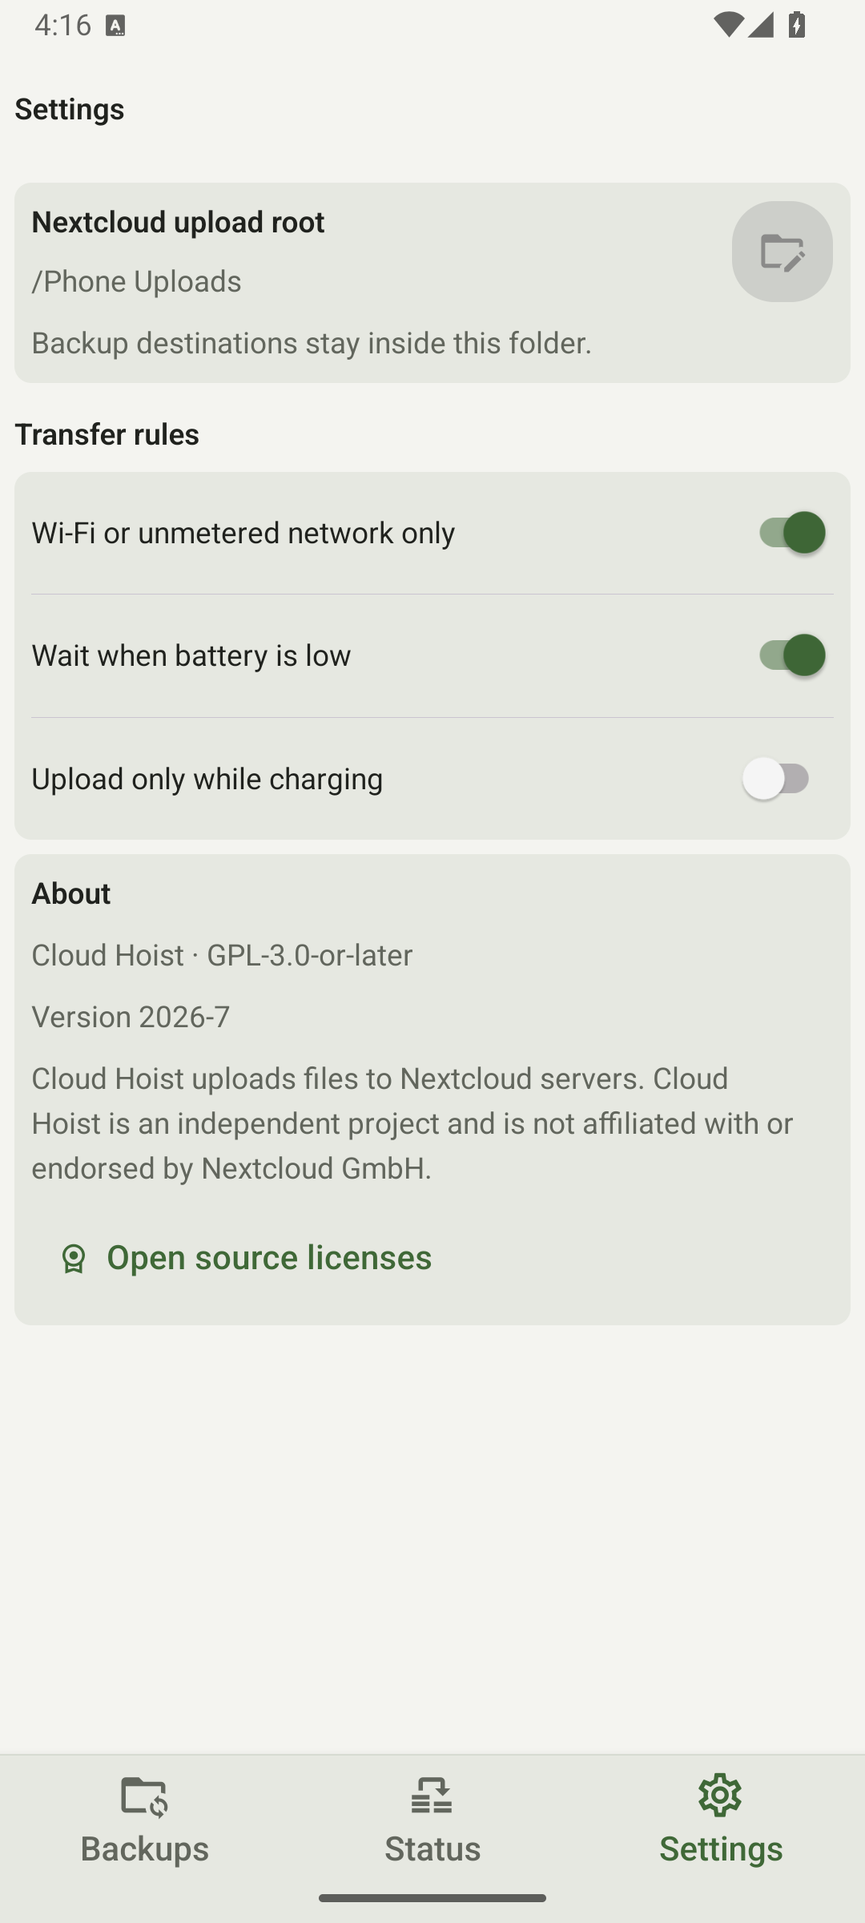
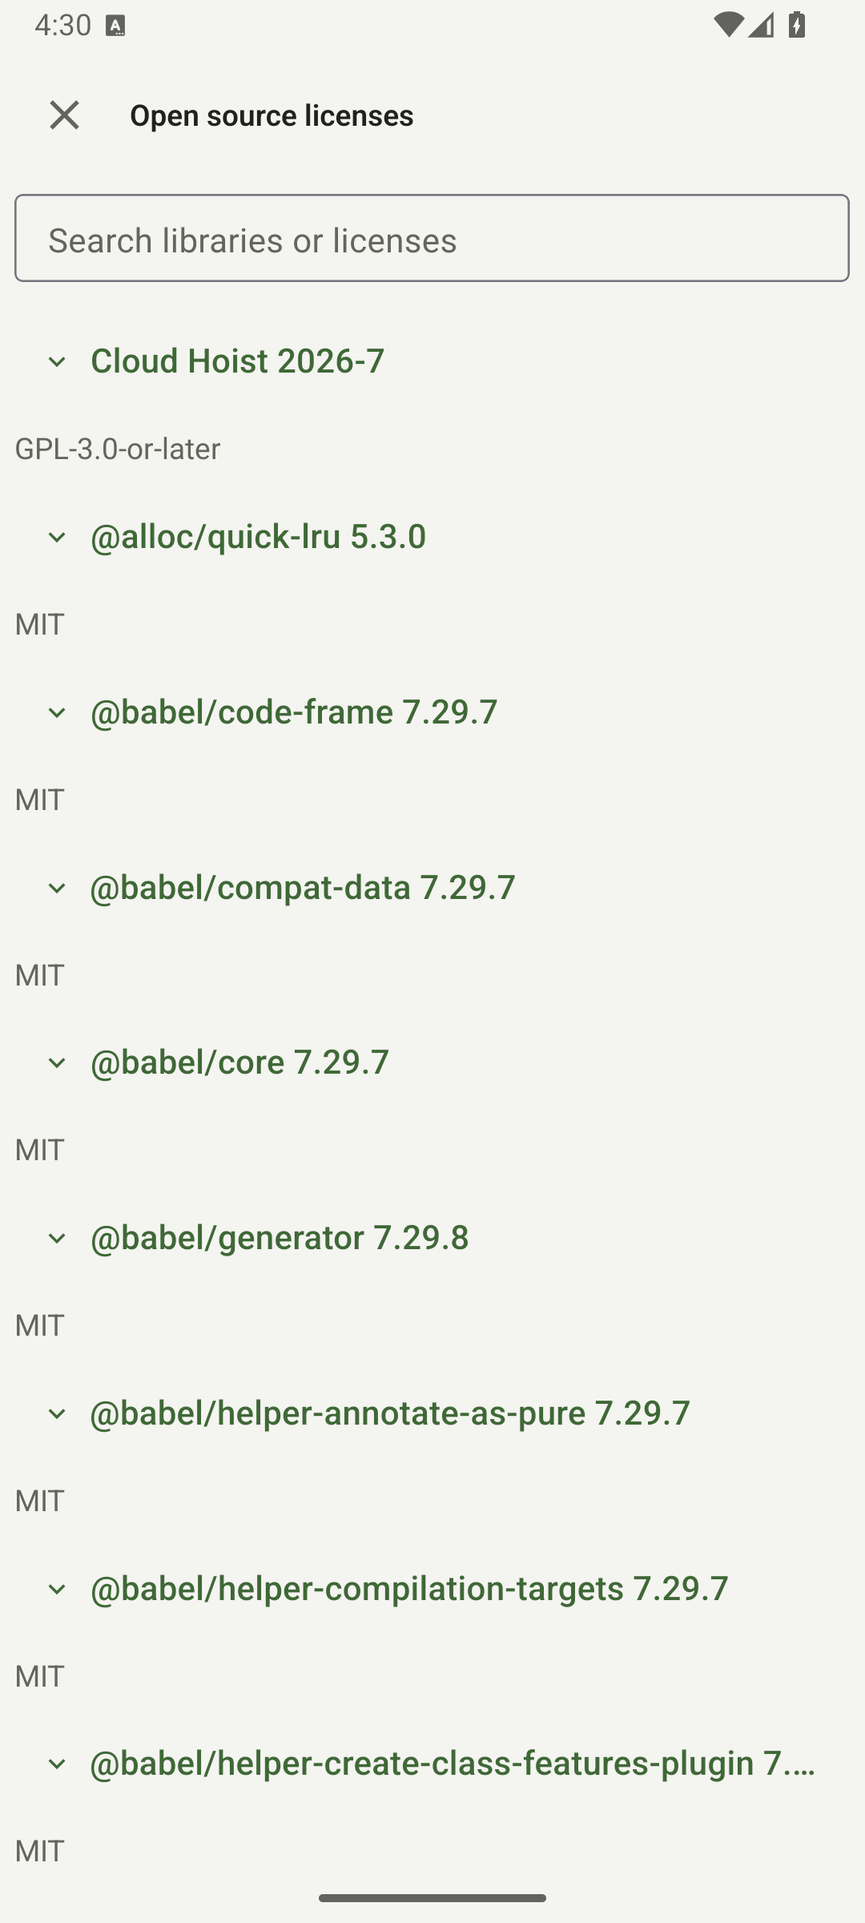
Record F-Droid validation results and remaining publication gates

diff --git a/fdroid-readiness-report.md b/fdroid-readiness-report.md
@@ -1,46 +1,72 @@
 # F-Droid readiness
 
-Updated October 24, 2026. Target: `ninja.domi.cloudhoist`, candidate `2026-7` / `20260007`.
+Updated October 24, 2026. Candidate: `ninja.domi.cloudhoist`, `2026-7` / `20260007`.
 
-## Decision and scope
+## Goal and result
 
-F-Droid is the only planned distribution channel. Google Play, EAS OTA, and GitHub APK publishing are removed from the plan and release workflow. GitHub remains public source hosting and an issue tracker. Existing published releases are left intact.
+F-Droid is the only distribution target. Google Play, EAS OTA, GitHub APK publishing, and the app's GitHub updater are removed from the plan and release workflow. GitHub remains public source hosting and an issue tracker. Existing published releases are left intact.
 
-The app is not listed in F-Droid yet. No inclusion request, issue, pull request, merge request, or message has been sent on Domi's behalf.
+The candidate builds through F-Droid's own tools, reproduces locally, and updates the existing physical-phone installation with the original key. It is **not listed or published in F-Droid**. Submission and review remain external gates; no messages, inclusion requests, issues, PRs, or merge requests were sent on Domi's behalf.
 
-## Implemented
+## What changed and why
 
-- Removed automatic GitHub update checks, APK download controls, and native Play Store integration. EAS OTA is explicitly disabled. F-Droid will manage complete APK updates, including JavaScript changes.
-- Added a credential-free unsigned build path. Local signing is a separate step using the existing private key; installation verifies identity and updates in place.
-- Configured Expo Android modules to compile from source. Preparation removes unused npm AARs, Apple/Windows binaries, and legacy npm-local Maven repositories. Hermes has one exact-version scanner exception under F-Droid's stated policy.
-- Added an offline license inventory and an About-screen license viewer. Evidence includes package notices, pinned upstream license files, Maven POM declarations, embedded Android notices, and font licenses.
-- Replaced Expo tooling `@expo/xcpretty` 4.4.4 with 4.4.6, which supplies the missing license and inherited credits. Other package-declaration fallbacks remain explicit review items.
-- Added an F-Droid recipe, listing descriptions, changelog, and deterministic listing icon. The recipe remains disabled until its external gates are settled. Version-tag discovery reads the committed `app.json`.
-- Replaced publishing CI with read-only checks and unsigned validation artifacts. It cannot publish GitHub APK releases or submit to a store.
+Expo's npm packages contained precompiled Android AARs and unused platform binaries. The build now compiles Expo Android modules from source and removes unused prebuilts and legacy npm-local Maven repositories. The only source-scanner exception is the exact pinned Linux Hermes compiler, explicitly permitted by F-Droid's policy. There is no blanket `node_modules` or Gradle-script exclusion.
 
-## Validation so far
+Initial independent builds differed in 32 native libraries. Compiler path normalization fixed source filenames and debug-derived build IDs. Reanimated's remaining ThinLTO build ID is omitted while retaining optimization. Android's signer also rewrote ZIP padding by default; local signing now preserves and checks alignment so F-Droid can reconstruct the signed APK.
 
-The unsigned candidate builds with Node 24.20.0, pnpm 11.3.0, JDK 21, Gradle 9.3.1, Android SDK/build tools 36, NDK 27.1.12297006, and CMake 3.22.1.
+The app has no external update checks, APK download controls, or Play Store integration. EAS OTA is explicitly disabled. Future JavaScript, UI, native, and asset updates all go through a complete APK managed by F-Droid.
 
-Type checking, lint, 97 JavaScript tests, 104 native unit tests, release-identity tests, icon generation checks, and license-inventory checks passed. F-Droid metadata lint passed using its current category list. APK scanning found no known non-free classes or unexpected signing blocks; permission/privacy checks passed.
+Unsigned builds need no private signing files or store/Expo account. Local signing and in-place installation are separate steps. CI runs F-Droid source, build, and APK checks from a clean Git checkout and retains unsigned validation artifacts; it cannot publish releases. Markdown-only main pushes skip APK builds.
 
-The prepared dependency tree scanned with zero errors. One warning concerns the unused Fontisto font file. The only ignored finding is the pinned Linux Hermes compiler; there is no blanket exclusion of `node_modules` or Gradle scripts.
+The repository now contains the candidate recipe, version-tag discovery, listing text, icon, changelog, and three reviewed screenshots from an isolated emulator installation. Screenshots contain no existing phone account details or backup content.
 
-Two initial builds in separate directories matched every ZIP entry except 32 native libraries. Twenty-eight differed only in GNU build IDs; four also embedded an absolute source filename. Compiler path normalization is implemented; its verification and final phone validation are in progress. Do not treat the initial comparison as a reproducibility pass.
+## Validation
+
+| Check | Result |
+| --- | --- |
+| Type checking, lint, icon and notice checks | Pass |
+| JavaScript tests | 97 pass |
+| Native JVM tests | 104 pass |
+| Release identity tests | 2 pass |
+| Physical-phone destination edge tests | 29 pass, using isolated in-memory databases |
+| Real Nextcloud test on the physical phone | Pass: uploads, moves, identical-content deletion, numbered conflicts, queued copies, and downloaded SHA-256 comparisons; UUID-owned server fixtures cleaned up |
+| F-Droid metadata lint | Pass against the current category list |
+| Prepared-source scan | Zero errors; one warning for the unused Fontisto font file |
+| F-Droid build and APK scan | Pass with fdroidserver 2.4.5; no known non-free classes or unexpected signing blocks reported |
+| Native dependency notice gate | All 188 coordinates match; deliberately removing one reviewed entry correctly rejects the build |
+| Independent build comparison | Byte-identical unsigned APKs from the working tree and a clean F-Droid checkout |
+| Developer-signature verification | F-Droid `verify_apks` passes; signature-copy reconstruction matches the signed APK byte-for-byte |
+| Physical installation and changed UI | Signed in-place update on Samsung SM-A166B, Android 16; version, license search/expansion, empty search, reopening, and Android Back verified |
+| Existing app state | Original account, three backup folders, two disabled/one enabled states, 19/14 pending-file counts, and 21 completed uploads retained |
+
+The build uses Node 24.20.0, pnpm 11.3.0, JDK 21, Gradle 9.3.1, Android SDK/build tools 36, NDK 27.1.12297006, and CMake 3.22.1.
+
+```text
+Unsigned APK SHA-256:
[1 lines of base64/hex data omitted]
+
+Signed, phone-tested APK SHA-256:
[1 lines of base64/hex data omitted]
+
+Existing signing certificate SHA-256:
[1 lines of base64/hex data omitted]
+```
+
+Reproducibility was tested on one host with separate source directories and shared dependency caches. This does not establish reproducibility on F-Droid's dedicated build infrastructure. Privileged build-server provisioning was not run on the workstation.
 
 ## Remaining gates
 
-1. Finish the normalized-build comparison and F-Droid recipe build validation. A local workstation build does not establish acceptance by F-Droid's build infrastructure.
-2. Validate the final signed candidate on the physical phone and inspect privacy-safe listing screenshots.
-3. Complete upstream notice review where packages omit standalone license files. Published SPDX declarations and author metadata are retained as evidence, not substituted for verified copyright notices.
-4. Preserve the signing identity for existing users. F-Droid's developer-signed workflow requires a reproducible rebuild and a publicly downloadable signed reference APK. Reference-artifact hosting is not configured. A new F-Droid signing key would prevent ordinary in-place updates of current installations; uninstalling or clearing data is not an acceptable automatic migration.
-5. Address project maturity. History begins September 4, 2026. Before December 4, 2026, inclusion needs an applicable exception, such as accurate evidence of existing users. Maintainers decide whether it applies.
-6. Domi submits the prepared work for review when the technical and signing gates are resolved. External review and publication cannot be completed under the instruction prohibiting outreach and PRs.
+1. **Signed reference hosting.** Preserving upgrades for existing installations requires F-Droid's developer-signed workflow. Local rebuild/signature verification now passes, but no public reference-APK URL is configured. The recipe is disabled, with the existing certificate recorded. Set `Binaries` only after choosing a host for verification artifacts; do not introduce another app-managed update channel or share the private key.
+2. **Upstream attribution review.** The offline inventory contains 874 app/library/font entries. Sixteen npm packages omit standalone license files and rely on preserved published declarations, source headers, or README notices. These fallbacks remain explicit review items. The missing notice in `@expo/xcpretty` 4.4.4 was resolved by pinning 4.4.6, which supplies the full license and inherited credits. A successful scanner run is not an independent legal audit.
+3. **F-Droid build-server and maintainer review.** The local recipe passed, but F-Droid must validate it in its environment and review dependencies, assets, and any anti-feature decisions. Agents must not open that submission under the current instruction.
+4. **Project maturity.** History starts September 4, 2026. Before December 4, 2026, inclusion needs an applicable exception, such as accurate evidence of existing users. Otherwise, wait for the normal development period. Maintainers decide whether an exception applies.
 
-No company registration, D-U-N-S number, or Google-style 12-testers-for-14-days process is part of the reviewed F-Droid inclusion procedure.
+A different F-Droid signing key cannot normally update the existing installation. Do not uninstall or clear app data as an automatic migration. No company registration, D-U-N-S number, or Google-style 12-testers-for-14-days process is part of the reviewed F-Droid procedure.
 
-## Sources and evidence
+## Handoff
 
-Policy and packaging references: [inclusion policy](https://f-droid.org/docs/Inclusion_Policy/), [submission guide](https://f-droid.org/docs/Submitting_to_F-Droid_Quick_Start_Guide/), [build metadata](https://f-droid.org/docs/Build_Metadata_Reference/), and [developer-signed reproducible builds](https://f-droid.org/docs/Reproducible_Builds/).
+Use [docs/publishing.md](docs/publishing.md) for commands and signing/submission steps, and [release-plan.md](release-plan.md) for the remaining sequence. The signed candidate is local at `dist/cloud-hoist-2026-7.apk`; it has not been uploaded as another GitHub release. No release tag has been pushed.
 
-The operational workflow is in [docs/publishing.md](docs/publishing.md); the remaining sequence is in [release-plan.md](release-plan.md). Local logs, scan output, build comparisons, and phone captures are under ignored `test-results/fdroid-audit/`. They contain validation details and are not submission artifacts.
+Local logs, scan results, APK comparisons, and private phone captures are under ignored `test-results/fdroid-audit/`. Public listing screenshots are under `fastlane/metadata/android/en-US/images/phoneScreenshots/`.
+
+References: [inclusion policy](https://f-droid.org/docs/Inclusion_Policy/), [submission guide](https://f-droid.org/docs/Submitting_to_F-Droid_Quick_Start_Guide/), [build metadata](https://f-droid.org/docs/Build_Metadata_Reference/), and [developer-signed reproducible builds](https://f-droid.org/docs/Reproducible_Builds/).

diff --git a/release-plan.md b/release-plan.md
@@ -1,37 +1,31 @@
 # F-Droid release plan
 
-F-Droid is Cloud Hoist's only distribution target. Google Play, hosted EAS updates, separate beta application IDs, and GitHub APK publishing are no longer planned. GitHub remains a public source mirror and issue tracker.
+F-Droid is Cloud Hoist's only distribution target. Google Play, hosted EAS updates, separate beta application IDs, and GitHub APK publishing are no longer planned. GitHub remains public source hosting and an issue tracker.
 
 ## One app and one update path
 
-Keep `ninja.domi.cloudhoist` and the existing release identity in `app.json`. Publish each release through F-Droid. JavaScript, UI, native engine, permission, and asset changes all travel in the same reviewed APK. The app performs no external update checks or executable downloads.
+Keep `ninja.domi.cloudhoist` and the release identity in `app.json`. Every JavaScript, UI, native, permission, or asset change ships in a complete APK through F-Droid. The app performs no external update checks or executable downloads.
 
-Keep `year-minor` versions, Android versionCode = year × 10000 + minor, and package.json `year.minor.0`. Documentation changes do not create app releases.
+Use `year-minor`, Android versionCode = year × 10000 + minor, and package.json `year.minor.0`. Documentation changes do not create app releases.
 
-## Local preparation
+## Completed locally
 
-1. Finish the free-software dependency and notice inventory.
-2. Prepare the native project and build an unsigned APK without private signing credentials, an Expo account, or a Play account.
-3. Validate the source recipe with F-Droid lint and scanner tools, then test the resulting APK.
-4. Sign the existing unsigned artifact with the current key only for local physical-phone validation. Preserve existing accounts, configuration, queues, history, and files.
-5. Prepare listing text, screenshots, icon, release notes, and version-discovery rules.
-6. Test a second independent build and investigate reproducibility before promising in-place migration to F-Droid.
-7. Update the readiness report with actual results and unresolved external requirements.
+- Credential-free unsigned builds, Expo Android source compilation, and preparation that removes unused prebuilts.
+- F-Droid candidate recipe, listing text, icon, screenshots, changelog, and version discovery from tagged `app.json` files.
+- Offline license notices and a build gate for changes to the reviewed Android dependency inventory.
+- F-Droid source/build/APK checks, independent byte-identical builds, and successful developer-signature reconstruction.
+- Signed in-place installation of candidate `2026-7` on the physical phone, changed-control checks, isolated destination edge tests, and real Nextcloud hash checks. Existing app data is retained.
+- Read-only CI checks and unsigned artifacts, with no store submission or GitHub APK publishing.
 
-## Signing and existing users
+## Remaining sequence
 
-The first F-Droid release must account for existing installations signed with our key. Prefer F-Droid's developer-signed reproducible-build workflow if it can be proven. The signed reference artifact would be evidence for F-Droid's verification, not an app-managed update channel.
+1. Resolve the remaining upstream notice-attribution review and confirm the recipe on F-Droid's build infrastructure.
+2. Choose a public host for the already tested signed reference artifact needed by F-Droid's verification. This is verification evidence, not a separate app-managed update channel. Keep the private key local.
+3. Set the recipe's `Binaries` URL, retain `AllowedAPKSigningKeys` for the existing certificate, and resolve the candidate disable flag. Never accept a new signing identity or clear existing app data silently.
+4. Publish the tested source revision/tag when the reference-artifact arrangement is ready. The APK must match the phone-tested candidate; upload retries reuse it.
+5. Domi submits the prepared work. The project began September 4, 2026; submission before December 4 needs an applicable maturity exception supported by accurate evidence of existing users.
+6. After acceptance, enable the recipe's automatic version-tag builds. Users install and update through F-Droid.
 
-If reproducibility or reference-artifact hosting cannot be established, stop and document the migration choice. Do not silently accept a new signing identity, uninstall the existing app, clear its data, or promise a seamless upgrade that has not been tested.
+Do not contact maintainers or file inclusion issues, PRs, or merge requests under the current instruction. No APK or release tag has been published during preparation; reference hosting and review remain unresolved. The current recipe remains disabled and automatic build updates remain off. F-Droid acceptance and publication are outstanding.
 
-## Submission boundary
-
-Prepare the recipe, metadata, evidence, and a reviewable handoff locally. Do not contact maintainers or users, open issues, or file pull or merge requests on Domi's behalf.
-
-F-Droid's external review and publication remain outstanding until Domi submits the work. The project began on September 4, 2026. A submission before December 4, 2026 needs the existing-users exception to the normal maturity period. Do not invent tester numbers or imply that a local build grants acceptance.
-
-## Ongoing releases
-
-Ordinary source pushes run checks. CI builds unsigned candidates and retains validation artifacts; it does not publish APKs elsewhere. Once accepted, F-Droid discovers version tags and builds the configured source revision. Test changed Android flows on the selected physical phone before tagging a release candidate.
-
-Operational commands belong in [docs/publishing.md](docs/publishing.md). Current evidence and blockers belong in [fdroid-readiness-report.md](fdroid-readiness-report.md).
+Commands belong in [docs/publishing.md](docs/publishing.md). Evidence, limits, artifact hashes, and blockers are in [fdroid-readiness-report.md](fdroid-readiness-report.md).

diff --git a/docs/publishing.md b/docs/publishing.md
@@ -33,22 +33,33 @@ pnpm android:release
 ANDROID_SERIAL=YOUR_PHONE_SERIAL pnpm android:install
 ```
 
-Signing produces `dist/cloud-hoist-<version>.apk` without rebuilding. Installation verifies the package, version, and existing certificate. Never uninstall the configured app or clear its data to bypass a signing mismatch. Follow [phone validation](development.md#phone-validation). For upload changes, verify downloaded hashes using test-owned files and folders.
+Signing produces `dist/cloud-hoist-<version>.apk` without rebuilding. It checks 16 KB native-library alignment and preserves ZIP alignment so F-Droid can copy and verify the signature. Installation verifies the package, version, and existing certificate. Never uninstall the configured app or clear its data to bypass a signing mismatch. Follow [phone validation](development.md#phone-validation). For upload changes, verify downloaded hashes using test-owned files and folders.
 
 `pnpm android:signing` exists only for a genuinely new signing identity and refuses to overwrite an existing signing directory. It is not a fix for missing release credentials on an existing project.
 
 ## Checks and submission
 
-Run type checking, lint, unit tests, native unit tests, release identity tests, license checks, F-Droid metadata lint, and source/APK scanning. Test a second build before claiming reproducibility. The native build normalizes source, Gradle-cache, and SDK paths, including filenames embedded in assertions and debug information. See the root readiness report for the distinction between a successful local build and a validated F-Droid build.
+Run type checking, lint, unit tests, native unit tests, release identity tests, license checks, F-Droid metadata lint, and source/APK scanning. The native build rejects runtime dependency coordinates that differ from the reviewed inventory, so new Android dependencies cannot silently bypass the notice review.
+
+To run the same F-Droid gates as CI, install fdroidserver 2.4.5 in a Python virtual environment, activate it, load the Android build environment, and use a clean committed checkout:
+
+```sh
+. scripts/android/env.sh
+python scripts/fdroid/validate.py --gradle /path/to/trusted/gradle-9.3.1/bin/gradle
+```
+
+`gradlew-fdroid` is also accepted as the Gradle executable. The runner makes a separate Git checkout under ignored `test-results/`, enables only its local recipe copy, and runs `fdroid build --test` with source and APK scanners. It does not run privileged build-server provisioning on the workstation or publish anything. Output is copied to the normal unsigned candidate path.
+
+Dependency updates require refreshing `dist/fdroid-native-dependencies.json`, reviewing the collected evidence under `licenses/`, and regenerating notices with `pnpm licenses:generate`. The inventory task writes its report before rejecting an unreviewed change; `scripts/fdroid/collect-licenses.py` can then collect published POMs and available artifact notices for review. Test a second build before claiming reproducibility. The native build normalizes source, Gradle-cache, and SDK paths, including filenames embedded in assertions and debug information. Reanimated retains optimization but omits its path-dependent ThinLTO build ID. See the root readiness report for the distinction between a successful local build and a validated F-Droid build.
 
 F-Droid can preserve our signing identity only through a verified developer-signed reproducible-build workflow. Its public reference-artifact requirement must be resolved before promising migration of existing installations. If F-Droid instead signs with a new key, that APK cannot update existing installations normally.
 
 Prepare listing metadata under `fastlane/metadata/android/en-US/`. Before submission, verify that screenshots show only test-owned content and that their license permits redistribution. Do not publish credentials, account identifiers, live backup paths, or signing files.
 
-The source tag must match the version in `app.json`. Once validation is complete, create that tag at the tested commit. F-Droid's recipe follows version tags and reads versionName and versionCode from `app.json`.
+The source tag must match the version in `app.json`. Once reference hosting and signing are settled, create that tag at the tested commit. Keep `AllowedAPKSigningKeys` bound to the existing public certificate, set the signed reference URL in `Binaries`, and remove the candidate disable flag. Enable `AutoUpdateMode: Version v%v` only after the initial recipe is accepted. F-Droid's recipe follows version tags and reads versionName and versionCode from `app.json`.
 
 Domi submits the prepared recipe to F-Droid. Agents must not contact maintainers, create inclusion issues, or file pull or merge requests without a later explicit instruction. Main-repository review, any maturity exception, and publication are external gates; do not label the app as listed before acceptance.
 
 ## CI
 
-The Android workflow runs checks and builds unsigned F-Droid candidates. It has no publishing credentials, does not create GitHub APK releases, and does not submit to other stores. Artifact retention supports validation rather than a separate distribution channel.
+The Android workflow runs checks and builds unsigned F-Droid candidates through the F-Droid validator. Markdown-only main pushes skip APK builds. It has no publishing credentials, does not create GitHub APK releases, and does not submit to other stores. Artifact retention supports validation rather than a separate distribution channel.
